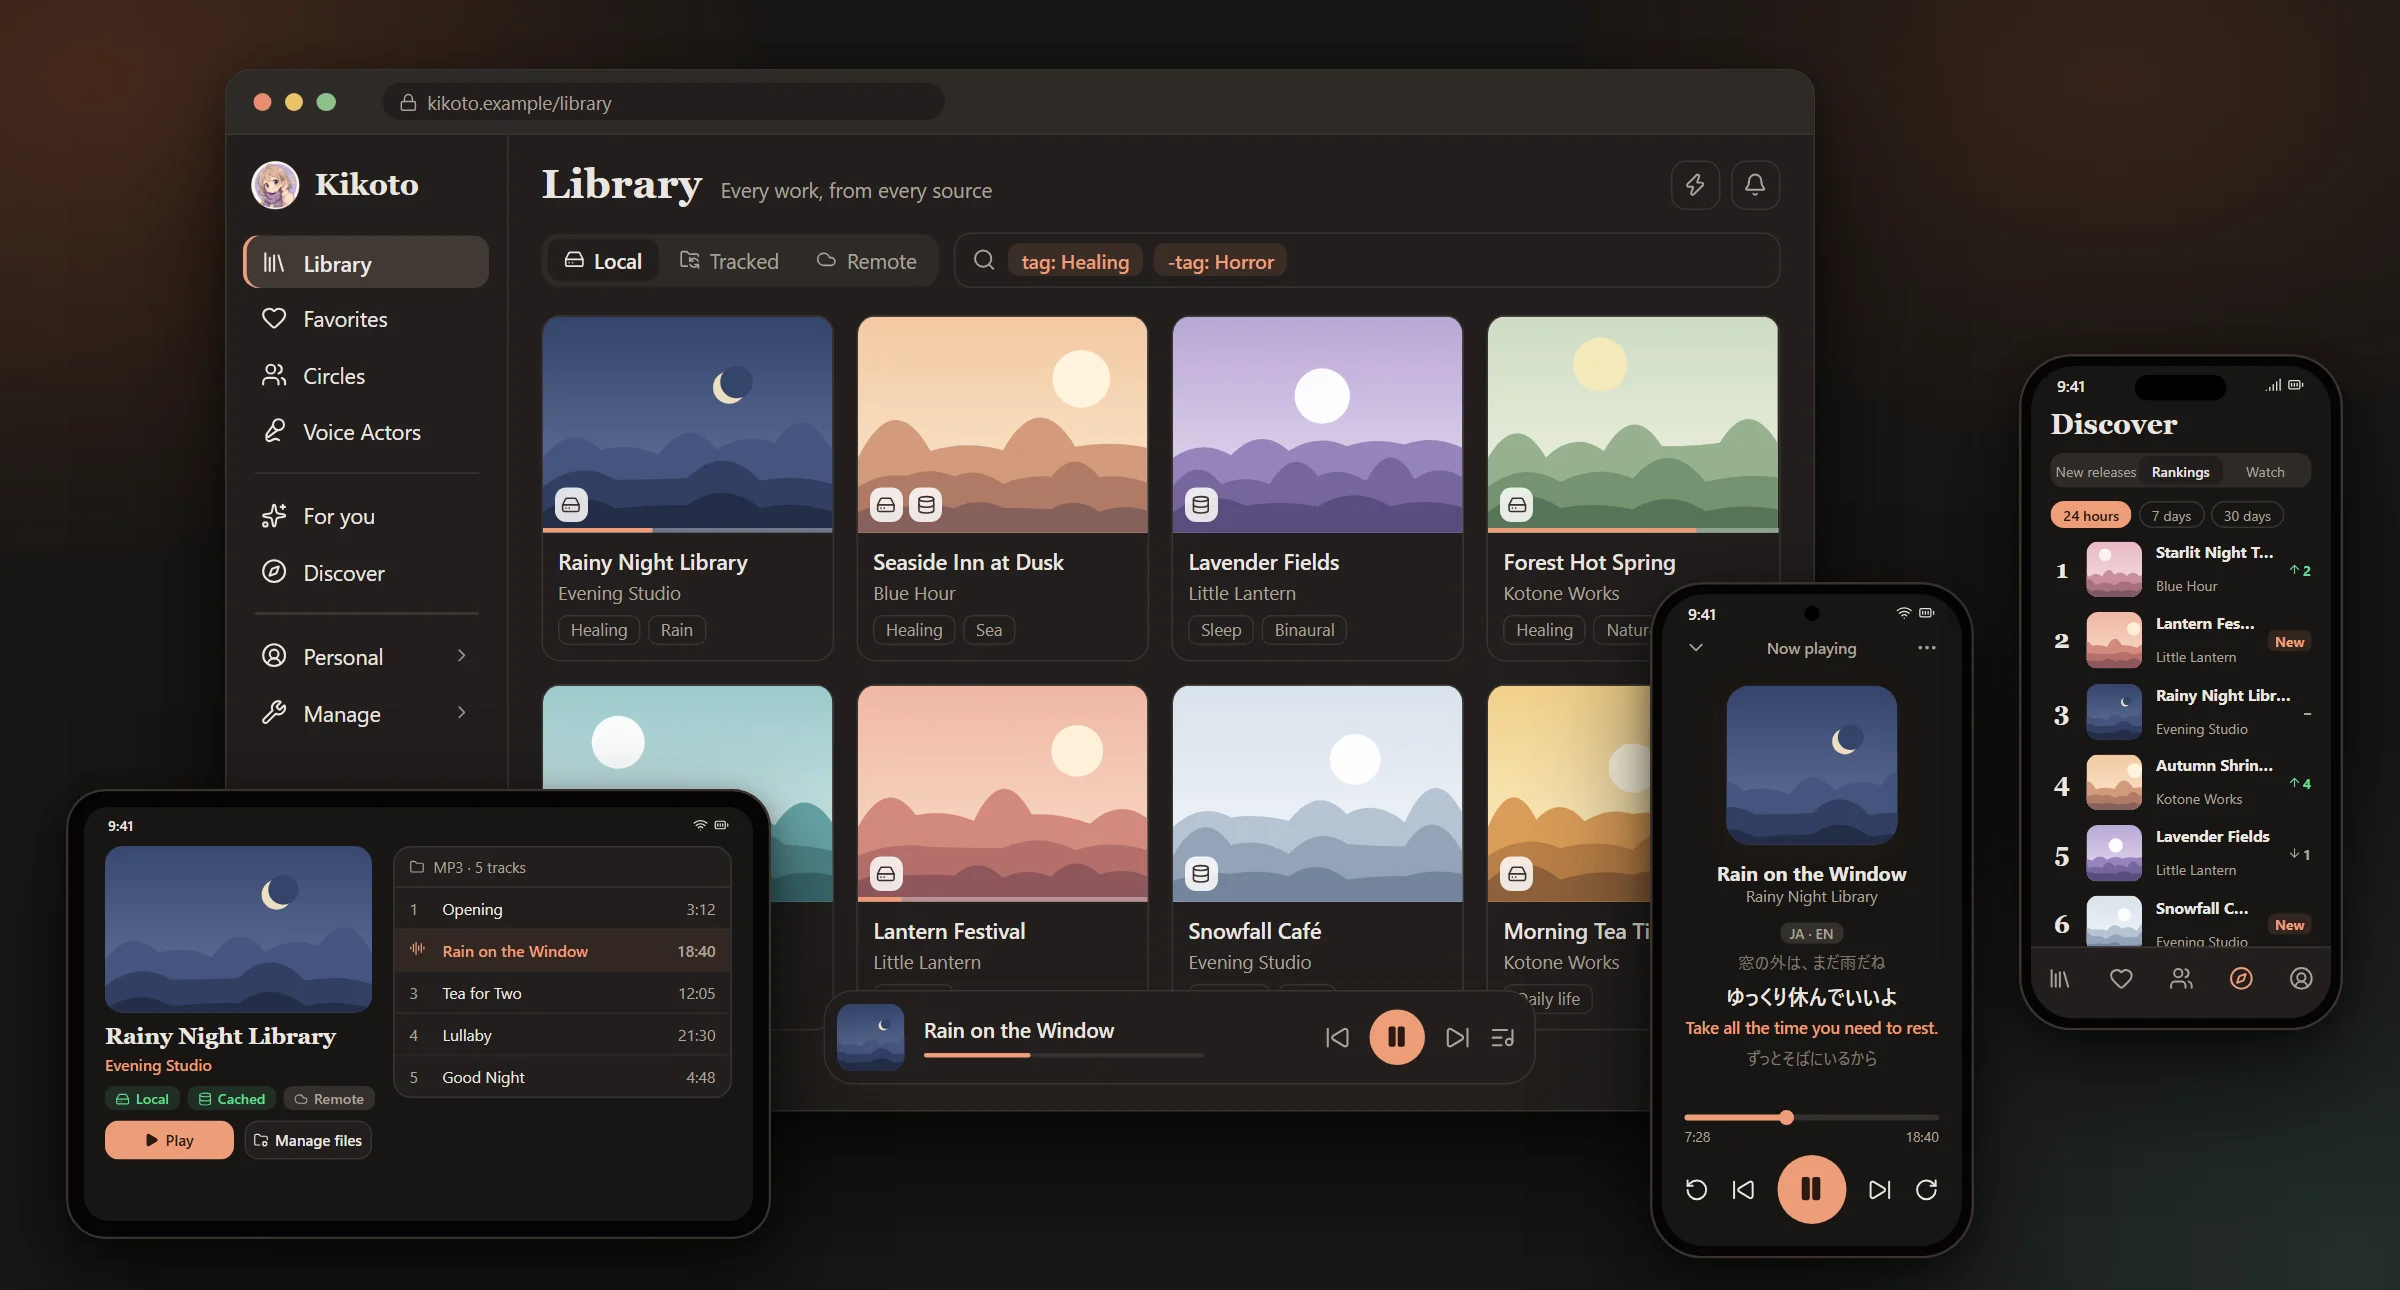
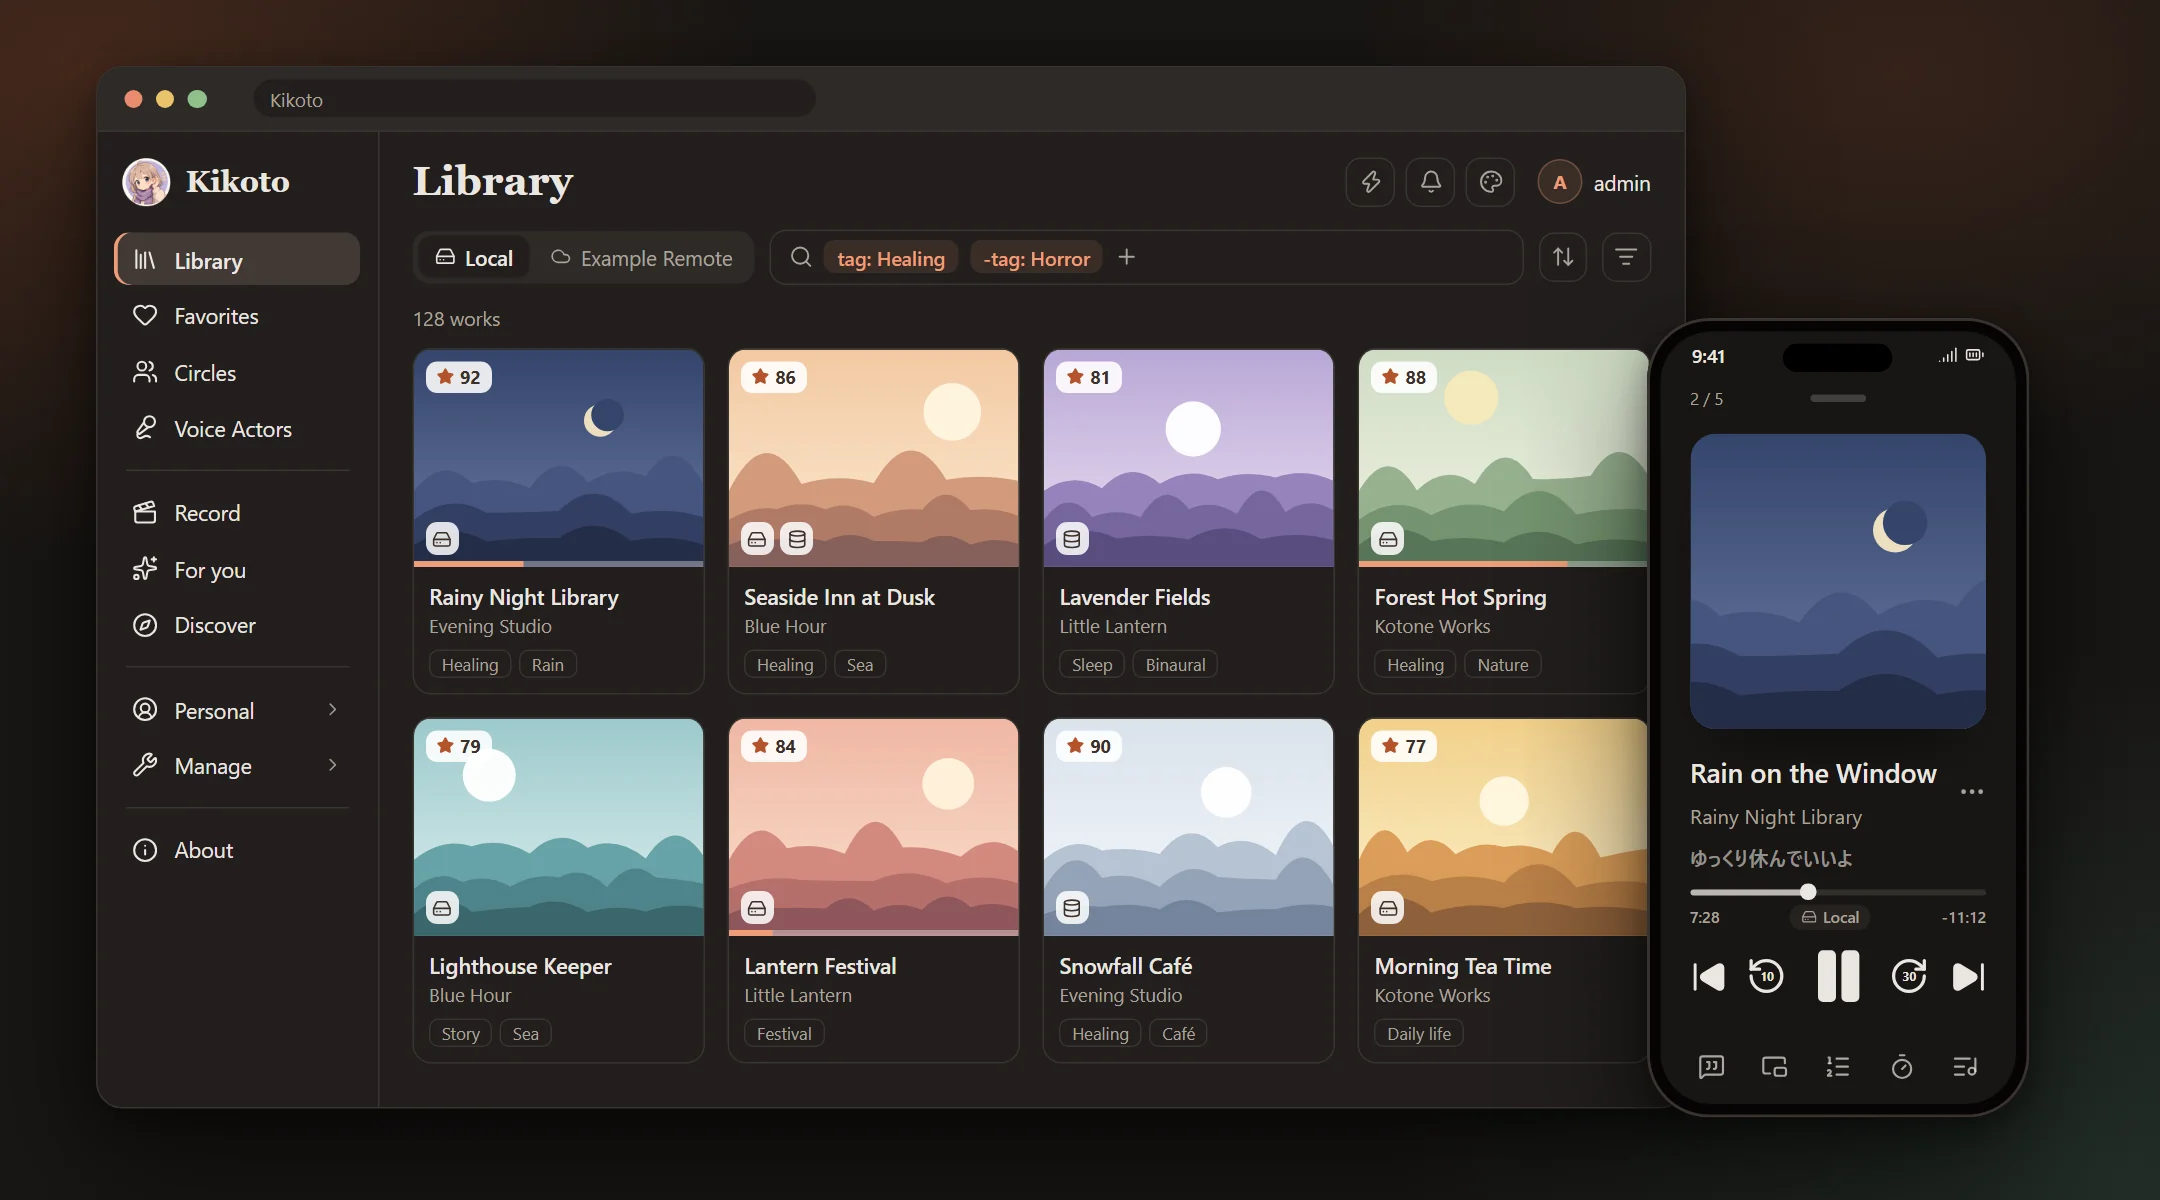
docs(readme): show the showcase on a desktop and one phone
Reduce the showcase to the Library in a desktop browser and Now Playing
on a phone. The sidebar carries Record and About as the app does, the
address bar reads Kikoto, and the phone follows the mobile Now Playing
layout with its current lyric line, source chip, and controls.

Update the alt text in every README to match, and remove the unused
kikoto-showcase.png.

diff --git a/docs/readme/README.ja.md b/docs/readme/README.ja.md
@@ -26,7 +26,7 @@
 <p align="center">
   <picture>
     <source media="(prefers-color-scheme: dark)" srcset="../assets/kikoto-readme-showcase-dark.webp">
-    <img src="../assets/kikoto-readme-showcase.webp" width="1200" alt="デスクトップブラウザーの Kikoto ライブラリ、タブレットの作品詳細、Android スマートフォンの翻訳歌詞付きプレーヤー、iPhone の見つけるランキング">
+    <img src="../assets/kikoto-readme-showcase.webp" width="1200" alt="デスクトップブラウザーの Kikoto ライブラリと、スマートフォンの再生中画面">
   </picture>
 </p>
 

diff --git a/docs/readme/README.ko.md b/docs/readme/README.ko.md
@@ -26,7 +26,7 @@
 <p align="center">
   <picture>
     <source media="(prefers-color-scheme: dark)" srcset="../assets/kikoto-readme-showcase-dark.webp">
-    <img src="../assets/kikoto-readme-showcase.webp" width="1200" alt="데스크톱 브라우저의 Kikoto 라이브러리, 태블릿의 작품 상세, Android 휴대폰의 번역 가사가 표시된 플레이어, iPhone의 둘러보기 순위">
+    <img src="../assets/kikoto-readme-showcase.webp" width="1200" alt="데스크톱 브라우저의 Kikoto 라이브러리와 휴대폰의 재생 중 화면">
   </picture>
 </p>
 

diff --git a/docs/readme/README.zh-Hans.md b/docs/readme/README.zh-Hans.md
@@ -26,7 +26,7 @@
 <p align="center">
   <picture>
     <source media="(prefers-color-scheme: dark)" srcset="../assets/kikoto-readme-showcase-dark.webp">
-    <img src="../assets/kikoto-readme-showcase.webp" width="1200" alt="Kikoto 在桌面浏览器上的媒体库、平板上的作品详情、Android 手机上带翻译歌词的播放器，以及 iPhone 上的发现排行榜">
+    <img src="../assets/kikoto-readme-showcase.webp" width="1200" alt="Kikoto 在桌面浏览器上的媒体库，以及手机上的正在播放页面">
   </picture>
 </p>
 

diff --git a/docs/readme/README.zh-Hant.md b/docs/readme/README.zh-Hant.md
@@ -26,7 +26,7 @@
 <p align="center">
   <picture>
     <source media="(prefers-color-scheme: dark)" srcset="../assets/kikoto-readme-showcase-dark.webp">
-    <img src="../assets/kikoto-readme-showcase.webp" width="1200" alt="Kikoto 在桌面瀏覽器上的媒體庫、平板上的作品詳情、Android 手機上附翻譯歌詞的播放器，以及 iPhone 上的發現排行榜">
+    <img src="../assets/kikoto-readme-showcase.webp" width="1200" alt="Kikoto 在桌面瀏覽器上的媒體庫，以及手機上的正在播放頁面">
   </picture>
 </p>
 

diff --git a/README.md b/README.md
@@ -26,7 +26,7 @@
 <p align="center">
   <picture>
     <source media="(prefers-color-scheme: dark)" srcset="docs/assets/kikoto-readme-showcase-dark.webp">
-    <img src="docs/assets/kikoto-readme-showcase.webp" width="1200" alt="Kikoto's Library in a desktop browser, a work on a tablet, the player with translated lyrics on an Android phone, and Discover rankings on an iPhone">
+    <img src="docs/assets/kikoto-readme-showcase.webp" width="1200" alt="Kikoto's Library in a desktop browser and Now Playing on a phone">
   </picture>
 </p>
 
